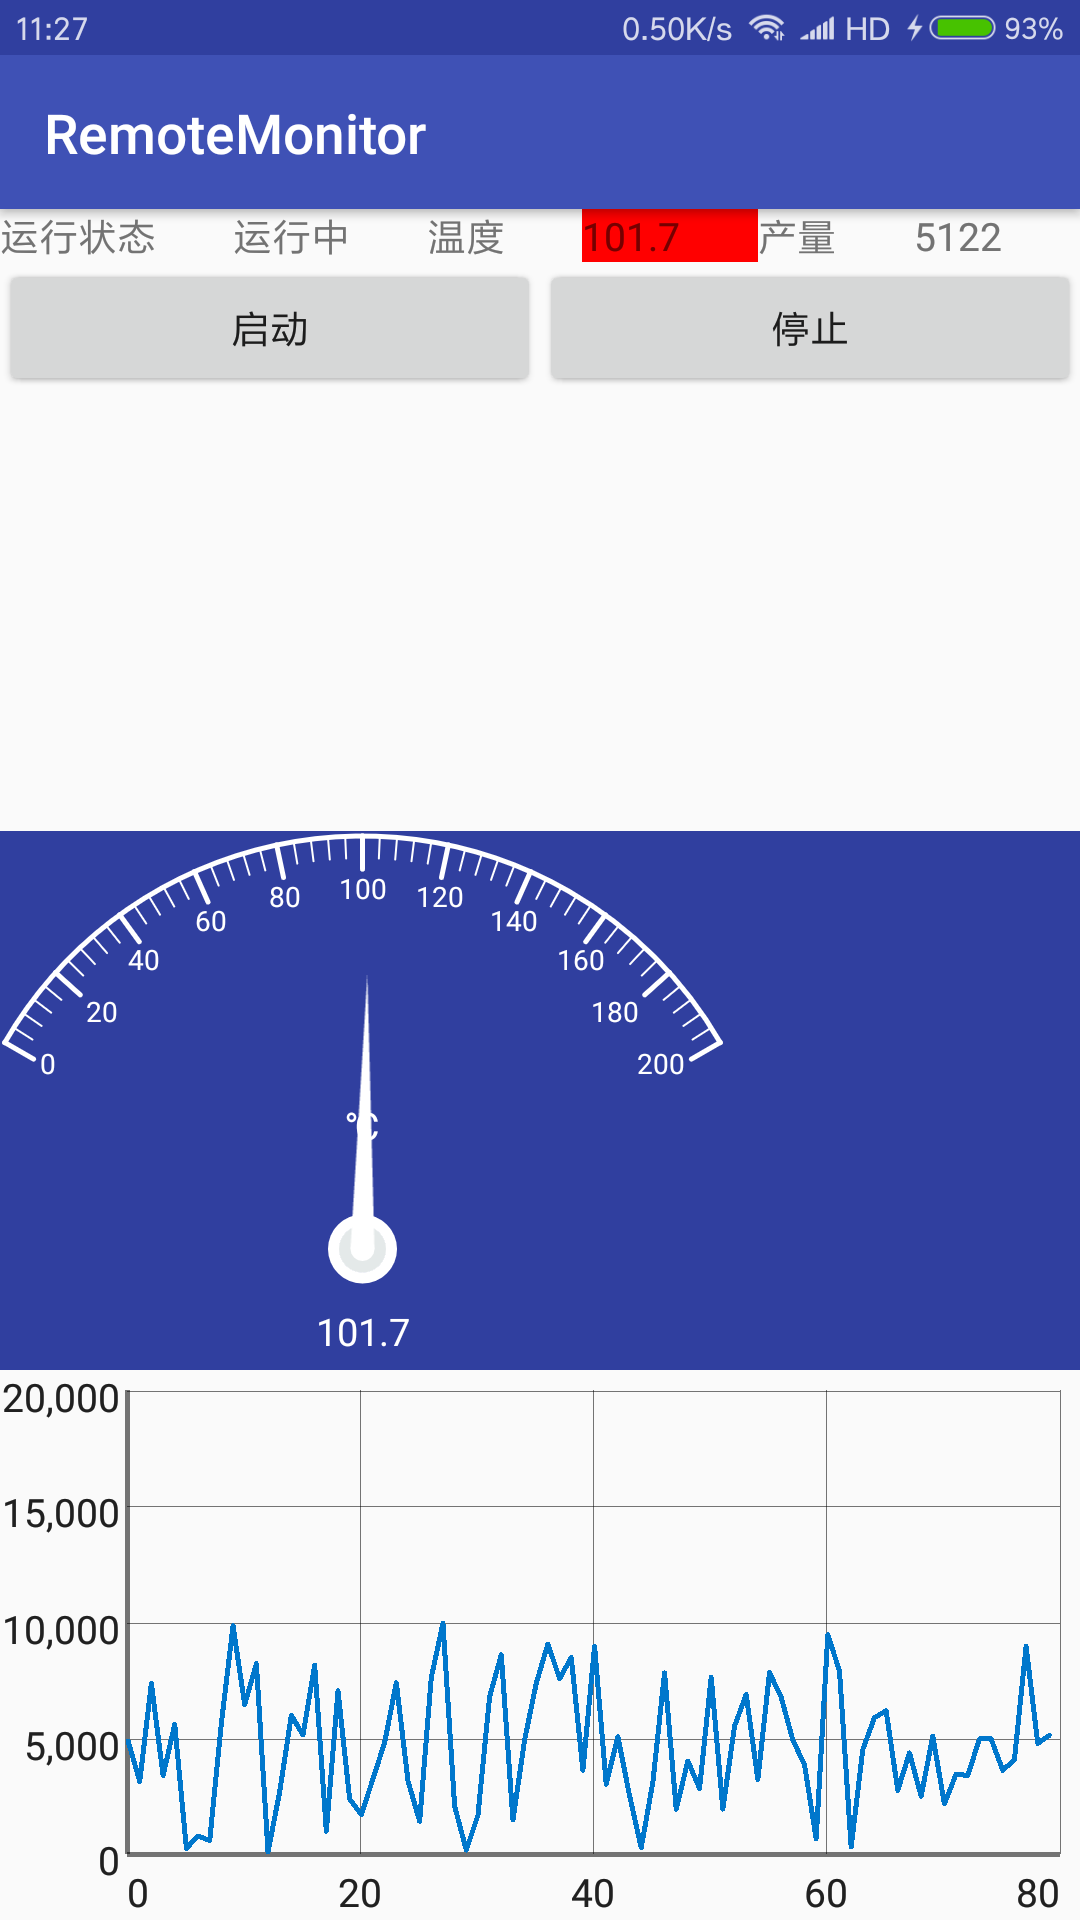
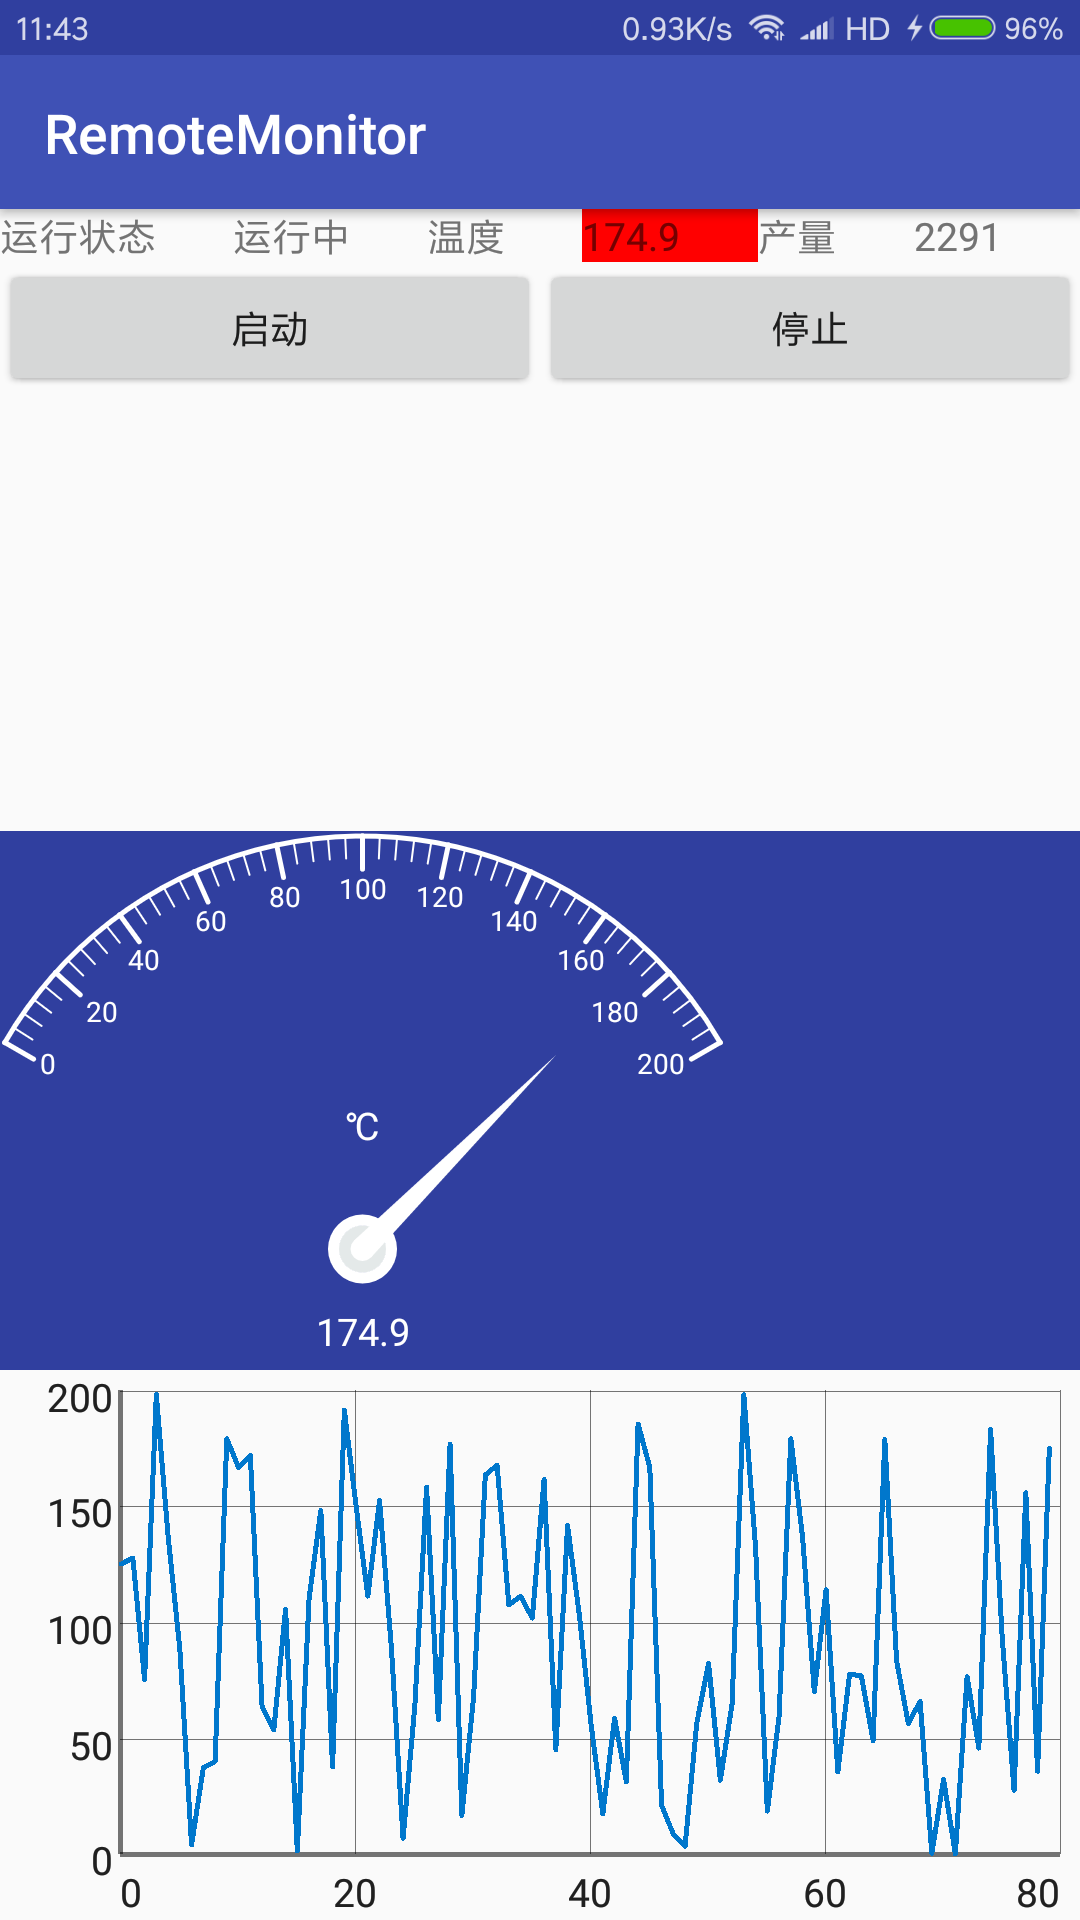
update

diff --git a/Android/app/src/main/java/com/example/monitor/remote/remotemonitor/MainActivity.java b/Android/app/src/main/java/com/example/monitor/remote/remotemonitor/MainActivity.java
@@ -31,7 +31,7 @@ public class MainActivity extends AppCompatActivity {
 
     private NetPushClient netPushClient = new NetPushClient("192.168.1.110", 23467, "A");
     private NetSimplifyClient netSimplifyClient = new NetSimplifyClient("192.168.1.110", 23457);
-    private int[] dataArray = new int[80];
+    private float[] dataArray = new float[80];
     private MyHandler myHandler;
 
     @Override
@@ -168,7 +168,7 @@ public class MainActivity extends AppCompatActivity {
                         for(int i=0;i<dataArray.length-1;i++){
                             dataArray[i] = dataArray[i+1];
                         }
-                        dataArray[dataArray.length - 1]=product;
+                        dataArray[dataArray.length - 1]=(float) value;
                         DataPoint[] dataPoints = new DataPoint[80];
                         for(int i=0;i<dataArray.length;i++){
                             dataPoints[i] = new DataPoint(i,dataArray[i]);
